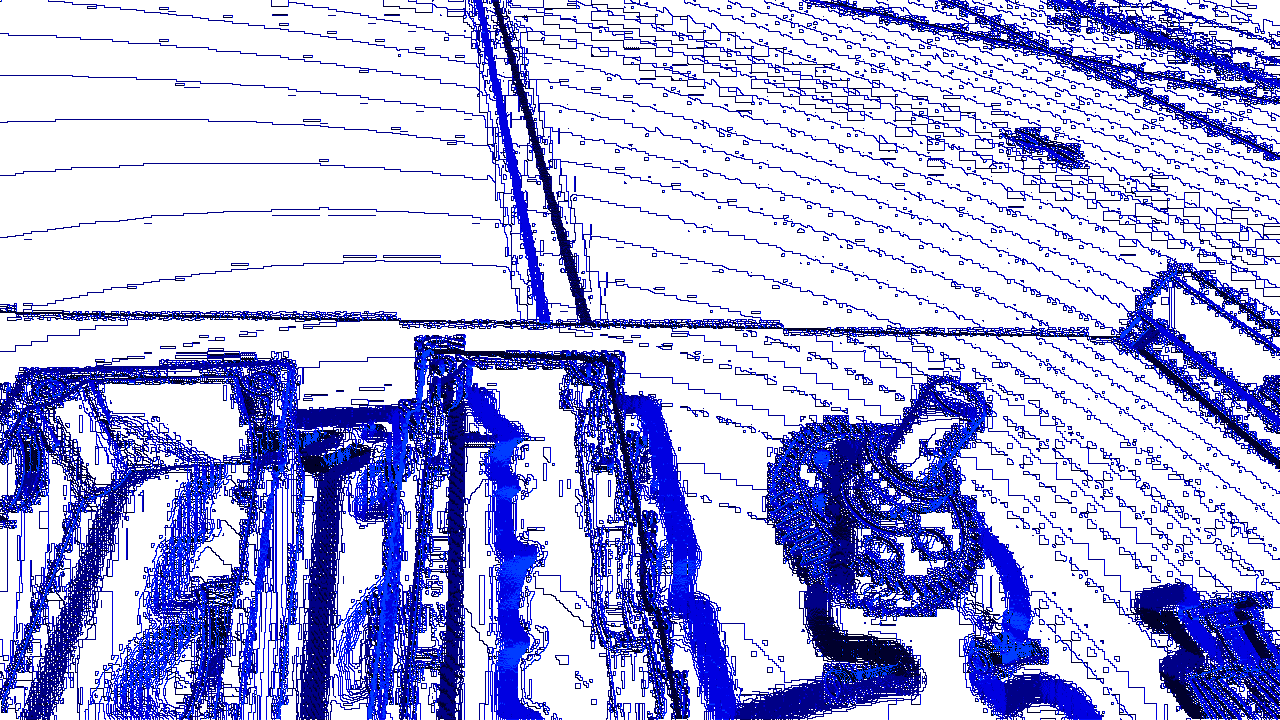
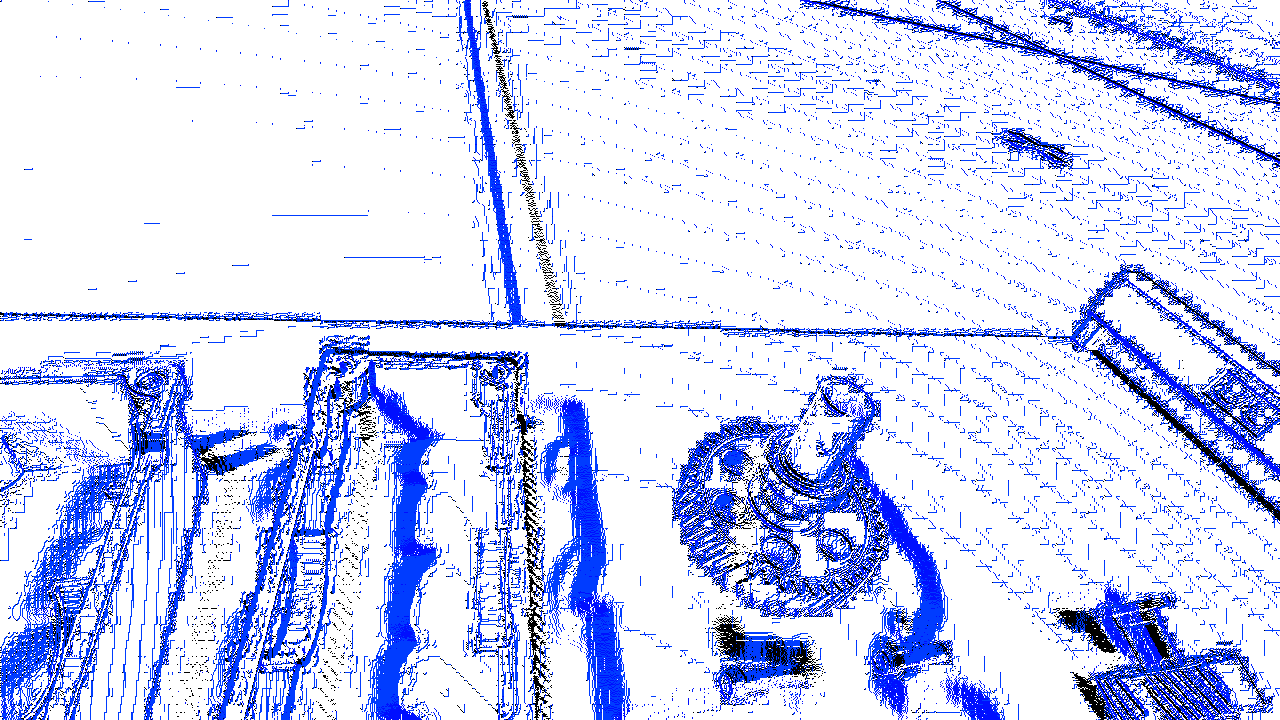
image

diff --git a/src/main/java/Grad.java b/src/main/java/Grad.java
@@ -19,12 +19,12 @@ public class Grad {
                 int red = (argb >> 16) & 0xff;
                 int green = (argb >> 8) & 0xff;
                 int blue = (argb) & 0xff;
-                int grayRGB = (red * 77 + green * 150 + blue * 29 + 128) / 256;
+//                int grayRGB = (red * 77 + green * 150 + blue * 29 + 128) / 256;
                 green = blue = red;
                 bi.setRGB(j, i, (red << 16) | (green << 8) | blue);
             }
         }
-        File file = new File("gray_image3.png");
+        File file = new File("gray_image5.png");
         if (!file.exists()) {
             file.createNewFile();
         }
@@ -33,7 +33,7 @@ public class Grad {
 
     public void gradientMap() throws IOException {
         BufferedImage biN = new BufferedImage(bi.getWidth(), bi.getHeight(), BufferedImage.TYPE_INT_ARGB);
-        System.out.println(bi.getHeight() + " " + bi.getWidth());
+//        System.out.println(bi.getHeight() + " " + bi.getWidth());
         for (int i = 0; i < bi.getHeight(); i++) {
             for (int j = 0; j < bi.getWidth(); j++) {
                 setDirection(i, j, biN);
@@ -42,7 +42,7 @@ public class Grad {
 
 //        setDirection(61, 172);
 
-        File file = new File("grad_map_image2.png");
+        File file = new File("grad_map_image5.png");
         if (!file.exists()) {
             file.createNewFile();
         }
@@ -50,145 +50,178 @@ public class Grad {
         bi = biN;
     }
 
-    private void setDirection(int i, int j, BufferedImage biN) {
-        int argb1 = bi.getRGB(j, i);
-        int grad = (argb1 >> 16) & 0xff;
-//        System.out.println(grad);
-//        System.out.println();
+    private void setDirection(int x, int y, BufferedImage biN) {
+//        int argb1 =
+        boolean flag = false;
+        if ((y - 1) >= 0 && (bi.getRGB(y - 1, x) & 0xff) == 90) {
+            flag = true;
+        }
+        int grad = bi.getRGB(y, x) & 0xff;
+////        System.out.println(grad);
+////        System.out.println();
         int buffI = 0;
         int buffJ = 0;
-        for (int d = i + 1; d > 0 && d > i - 2; d--) {
 
-            if (j + 1 >= bi.getWidth() && i + 1 >= bi.getHeight()) {
-                d--;
-                for (int k = j; k > j - 2 && k > 0; k--) {
-                    int argb = bi.getRGB(k, d);
-//            int alpha = (argb >> 24) & 0xff;
-                    int red = (argb >> 16) & 0xff;
-                    System.out.println();
-//            int green = (argb >> 8) & 0xff;
-//            int blue = (argb) & 0xff;
-                    if (red < grad) {
-//                        System.out.println(red + " " + grad + " " + i + " " + j);
-                        grad = red;
-                        buffI = d;
-                        buffJ = k;
-                    }
+        for (int i = x - 1; i < x + 1; i++) {
+            for (int j = y - 1; j < y + 1; j++) {
+                if (i > bi.getHeight() || j > bi.getWidth()) {
+                    continue;
                 }
-                continue;
-            }
-
-
-            if (j + 1 >= bi.getWidth()) {
-                for (int k = j; k > j - 2 && k > 0; k--) {
-                    int argb = bi.getRGB(k, d);
-//            int alpha = (argb >> 24) & 0xff;
-                    int red = (argb >> 16) & 0xff;
-//            int green = (argb >> 8) & 0xff;
-//            int blue = (argb) & 0xff;
-                    if (red < grad) {
-//                        System.out.println(red + " " + grad + " " + i + " " + j);
-                        grad = red;
-                        buffI = d;
-                        buffJ = k;
-                    }
+                if (i < 0 || j < 0) {
+                    continue;
                 }
-                continue;
-            }
-
-
-            if (i + 1 >= bi.getHeight()) {
-                d--;
-                for (int k = j + 1; k > j - 2 && k > 0; k--) {
-                    int argb = bi.getRGB(k, d);
-//            int alpha = (argb >> 24) & 0xff;
-                    int red = (argb >> 16) & 0xff;
-//            int green = (argb >> 8) & 0xff;
-//            int blue = (argb) & 0xff;
-                    if (red < grad) {
-//                        System.out.println(red + " " + grad + " " + i + " " + j);
-                        grad = red;
-                        buffI = d;
-                        buffJ = k;
-                    }
+                if (i == x && j == y) {
+                    continue;
                 }
-                continue;
-            }
-
-            for (int k = j + 1; k > j - 2 && k > 0; k--) {
-                int argb = bi.getRGB(k, d);
-//            int alpha = (argb >> 24) & 0xff;
-                int red = (argb >> 16) & 0xff;
-//            int green = (argb >> 8) & 0xff;
-//            int blue = (argb) & 0xff;
-//                System.out.println(red + " " + grad + " " + i + " " + j);
-                if (red < grad) {
-//                    System.out.println(red + " " + grad);
-
-                    grad = red;
-                    buffI = d;
-                    buffJ = k;
+                if (j != y + 1 && flag) {
+                    continue;
+                }
+                if ((bi.getRGB(j, i) & 0xff) < grad) {
+                    buffI = i;
+                    buffJ = j;
+                    grad = bi.getRGB(j, i) & 0xff;
                 }
             }
         }
-        int a = (argb1 >> 16) & 0xff;
 
-        if (i == 61 && j == 172) {
-            System.out.println(buffI + " " + buffJ);
-        }
 
-        if (buffI == i && buffJ == j) {
-            biN.setRGB(j, i, new Color(255, 255, 255).getRGB());
+//        for (int d = i + 1; d > 0 && d > i - 2; d--) {
+//
+//            if (j + 1 >= bi.getWidth() && i + 1 >= bi.getHeight()) {
+//                d--;
+//                for (int k = j; k > j - 2 && k > 0; k--) {
+//                    int argb = bi.getRGB(k, d);
+//
+////            int alpha = (argb >> 24) & 0xff;
+//                    int red = (argb >> 16) & 0xff;
+////                    System.out.println();
+////            int green = (argb >> 8) & 0xff;
+////            int blue = (argb) & 0xff;
+//                    if (red < grad) {
+////                        System.out.println(red + " " + grad + " " + i + " " + j);
+//                        grad = red;
+//                        buffI = d;
+//                        buffJ = k;
+//                    }
+//                }
+//                continue;
+//            }
+//
+//
+//            if (j + 1 >= bi.getWidth()) {
+//                for (int k = j; k > j - 2 && k > 0; k--) {
+//                    int argb = bi.getRGB(k, d);
+////            int alpha = (argb >> 24) & 0xff;
+//                    int red = (argb >> 16) & 0xff;
+////            int green = (argb >> 8) & 0xff;
+////            int blue = (argb) & 0xff;
+//                    if (red < grad) {
+////                        System.out.println(red + " " + grad + " " + i + " " + j);
+//                        grad = red;
+//                        buffI = d;
+//                        buffJ = k;
+//                    }
+//                }
+//                continue;
+//            }
+//
+//
+//            if (i + 1 >= bi.getHeight()) {
+//                d--;
+//                for (int k = j + 1; k > j - 2 && k > 0; k--) {
+//                    int argb = bi.getRGB(k, d);
+////            int alpha = (argb >> 24) & 0xff;
+//                    int red = (argb >> 16) & 0xff;
+////            int green = (argb >> 8) & 0xff;
+////            int blue = (argb) & 0xff;
+//                    if (red < grad) {
+////                        System.out.println(red + " " + grad + " " + i + " " + j);
+//                        grad = red;
+//                        buffI = d;
+//                        buffJ = k;
+//                    }
+//                }
+//                continue;
+//            }
+//
+//            for (int k = j + 1; k > j - 2 && k > 0; k--) {
+//                int argb = bi.getRGB(k, d);
+//                if (k == (j - 1) && d==i && flag) {
+//                    System.out.println("yes");
+//                    continue;
+//                }
+////            int alpha = (argb >> 24) & 0xff;
+//                int red = (argb >> 16) & 0xff;
+////            int green = (argb >> 8) & 0xff;
+////            int blue = (argb) & 0xff;
+////                System.out.println(red + " " + grad + " " + i + " " + j);
+//                if (red < grad) {
+////                    System.out.println(red + " " + grad);
+//
+//                    grad = red;
+//                    buffI = d;
+//                    buffJ = k;
+//                }
+//            }
+//        }
+//        int a = (argb1 >> 16) & 0xff;
+
+//        if (x == 61 && y == 172) {
+////            System.out.println(buffI + " " + buffJ);
+//        }
+
+        if (buffI == x && buffJ == y) {
+            biN.setRGB(y, x, new Color(255, 255, 255).getRGB());
 //            bi.setRGB(j, i, 0xffffff);
-            System.out.println("--");
+//            System.out.println("--");
             return;
         }
 
-        if (buffI == i + 1 && buffJ == j + 1) {
-            biN.setRGB(j, i, new Color(0, 0, 135).getRGB());
-            System.out.println(135);
+        if (buffI == x + 1 && buffJ == y + 1) {
+            biN.setRGB(y, x, new Color(0, 0, 135).getRGB());
+//            System.out.println(135);
             return;
         }
-        if (buffI == i && buffJ == j + 1) {
-            biN.setRGB(j, i, new Color(0, 0, 90).getRGB());
+        if (buffI == x && buffJ == y + 1) {
+            biN.setRGB(y, x, new Color(0, 0, 90).getRGB());
 //            bi.setRGB(j, i, -16776090);
-            System.out.println(90);
+//            System.out.println(90);
             return;
         }
-        if (buffI == i - 1 && buffJ == j + 1) {
-            biN.setRGB(j, i, new Color(0, 0, 45).getRGB());
+        if (buffI == x - 1 && buffJ == y + 1) {
+            biN.setRGB(y, x, new Color(0, 0, 45).getRGB());
 //            bi.setRGB(j, i, -16776045);
-            System.out.println(45);
+//            System.out.println(45);
             return;
         }
-        if (buffI == i - 1 && buffJ == j) {
-            biN.setRGB(j, i, new Color(0, 0, 0).getRGB());
+        if (buffI == x - 1 && buffJ == y) {
+            biN.setRGB(y, x, new Color(0, 0, 0).getRGB());
 //            bi.setRGB(j, i, -16776000);
-            System.out.println(0);
+//            System.out.println(0);
             return;
         }
-        if (buffI == i - 1 && buffJ == j - 1) {
-            biN.setRGB(j, i, new Color(0, 60, 255).getRGB());
+        if (buffI == x - 1 && buffJ == y - 1) {
+            biN.setRGB(y, x, new Color(0, 60, 255).getRGB());
 //            bi.setRGB(j, i, -16776315);
-            System.out.println(315);
+//            System.out.println(315);
             return;
         }
-        if (buffI == i && buffJ == j - 1) {
-            biN.setRGB(j, i, new Color(0, 15, 255).getRGB());
+        if (buffI == x && buffJ == y - 1) {
+            biN.setRGB(y, x, new Color(0, 15, 255).getRGB());
 //            bi.setRGB(j, i, -16776270);
-            System.out.println(270);
+//            System.out.println(270);
             return;
         }
-        if (buffI == i + 1 && buffJ == j - 1) {
-            biN.setRGB(j, i, new Color(0, 0, 225).getRGB());
+        if (buffI == x + 1 && buffJ == y - 1) {
+            biN.setRGB(y, x, new Color(0, 0, 225).getRGB());
 //            bi.setRGB(j, i, -16776225);
-            System.out.println(225);
+//            System.out.println(225);
             return;
         }
-        if (buffI == i + 1 && buffJ == j) {
-            biN.setRGB(j, i, new Color(0, 0, 180).getRGB());
+        if (buffI == x + 1 && buffJ == y) {
+            biN.setRGB(y, x, new Color(0, 0, 180).getRGB());
 //            bi.setRGB(j, i, -16776180);
-            System.out.println(180);
+//            System.out.println(180);
             return;
         }
 
@@ -201,7 +234,7 @@ public class Grad {
                 mainDirection(i, j);
             }
         }
-        File file = new File("general_map_image2.png");
+        File file = new File("general_map_image4.png");
         if (!file.exists()) {
             file.createNewFile();
         }
@@ -307,11 +340,14 @@ public class Grad {
 
 
     public static void main(String[] args) throws IOException {
-        BufferedImage bi = ImageIO.read(new File("grad_map_image2.png"));
+        long startTime = System.currentTimeMillis();
+        System.out.println("Start");
+        BufferedImage bi = ImageIO.read(new File("6_left.png"));
         Grad grad = new Grad(bi);
-//        grad.gradGray();
-//        grad.gradientMap();
+        grad.gradGray();
+        grad.gradientMap();
         grad.generalMap();
+        System.out.println(System.currentTimeMillis() - startTime + " End");
 //        BufferedImage bi1 = ImageIO.read(new File("grad_map_image1.png"));
 //        for (int i = 0; i < bi1.getHeight(); i++) {
 //            for (int j = 0; j < bi1.getWidth(); j++) {
